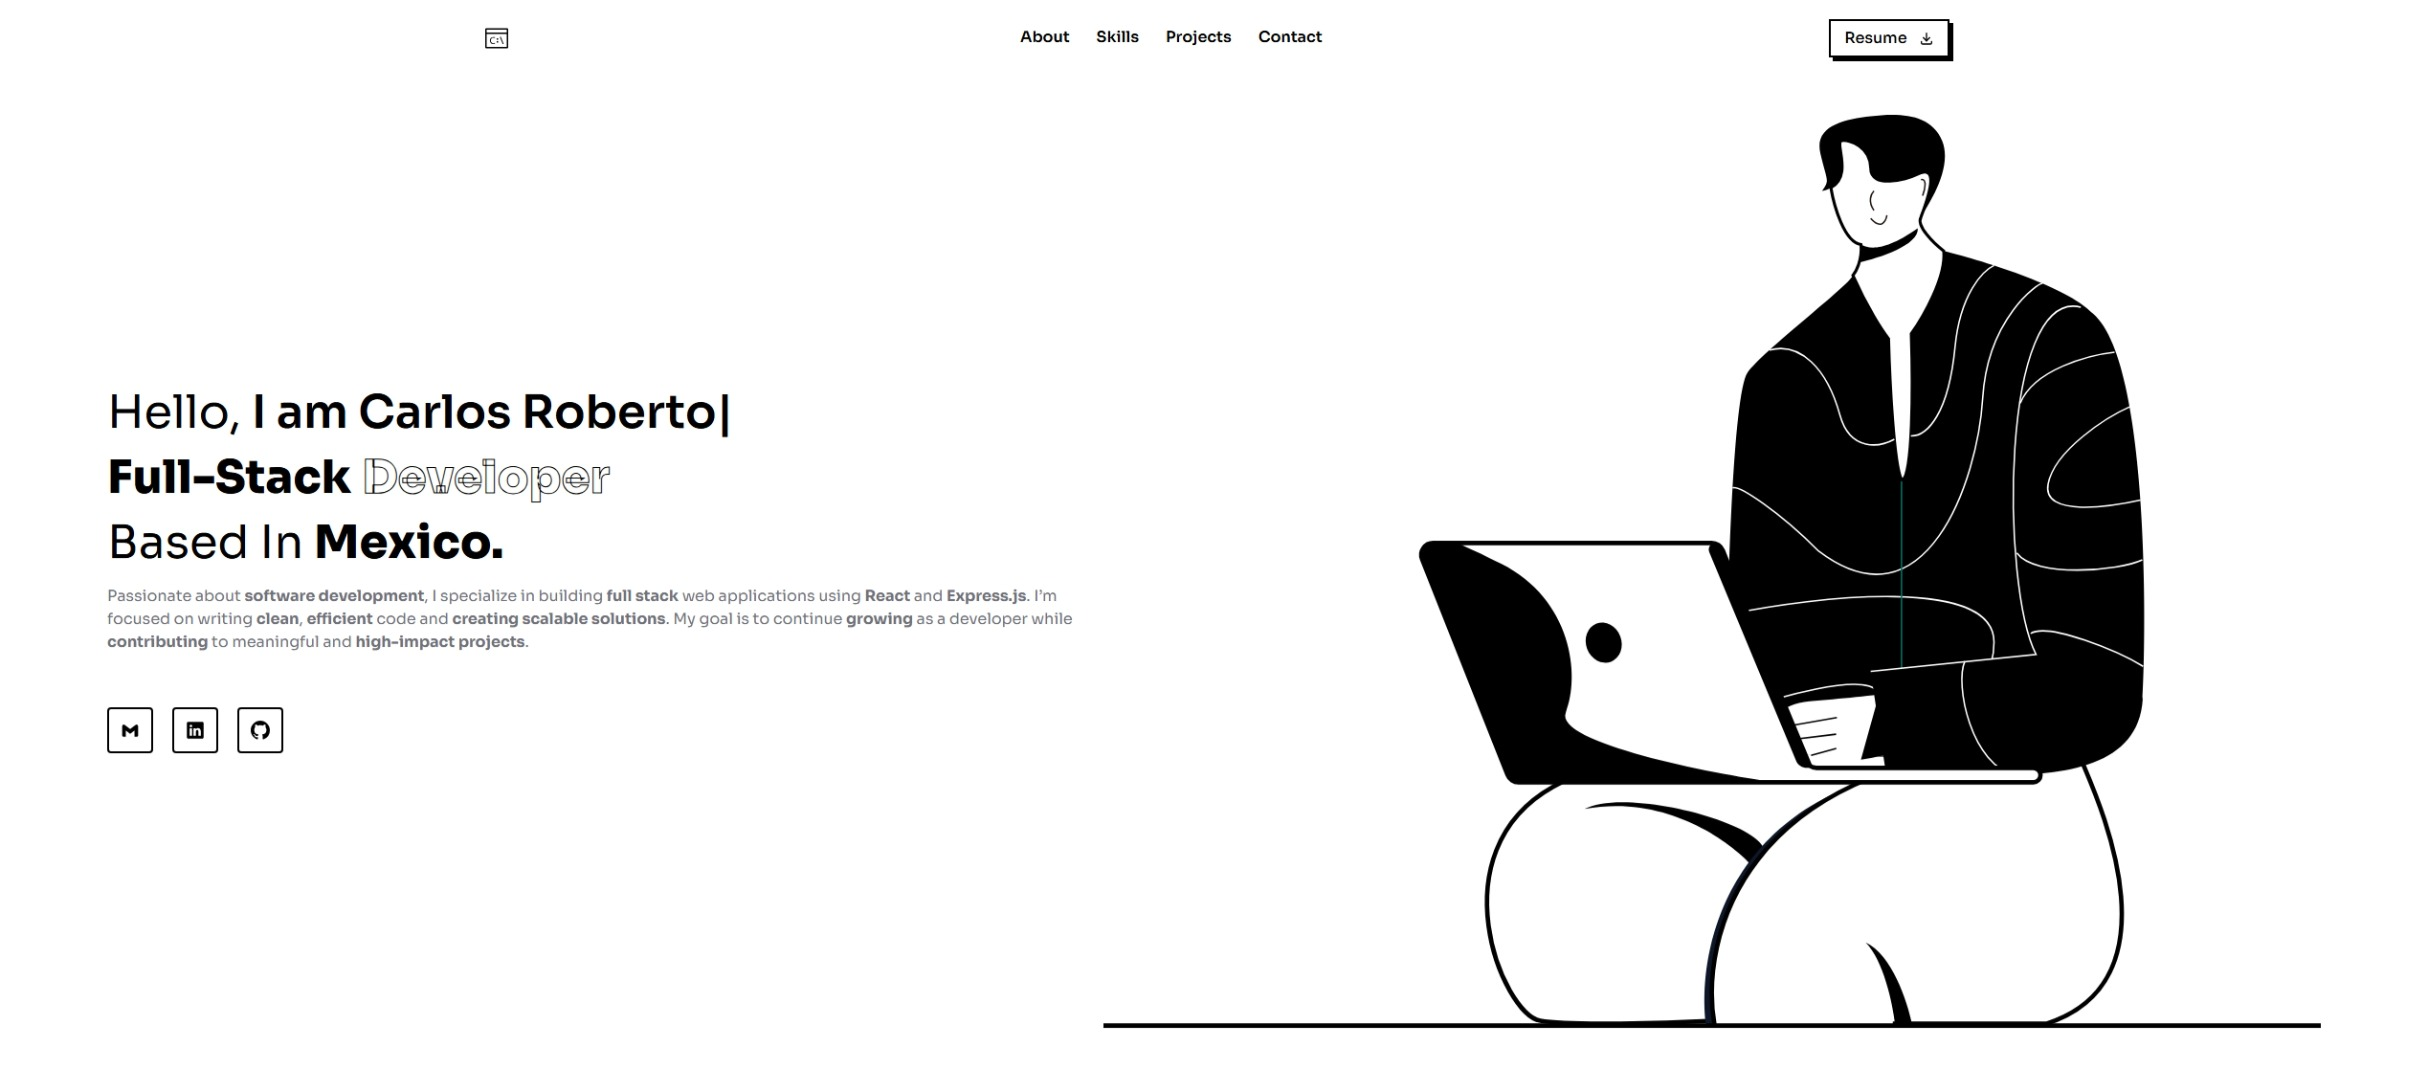
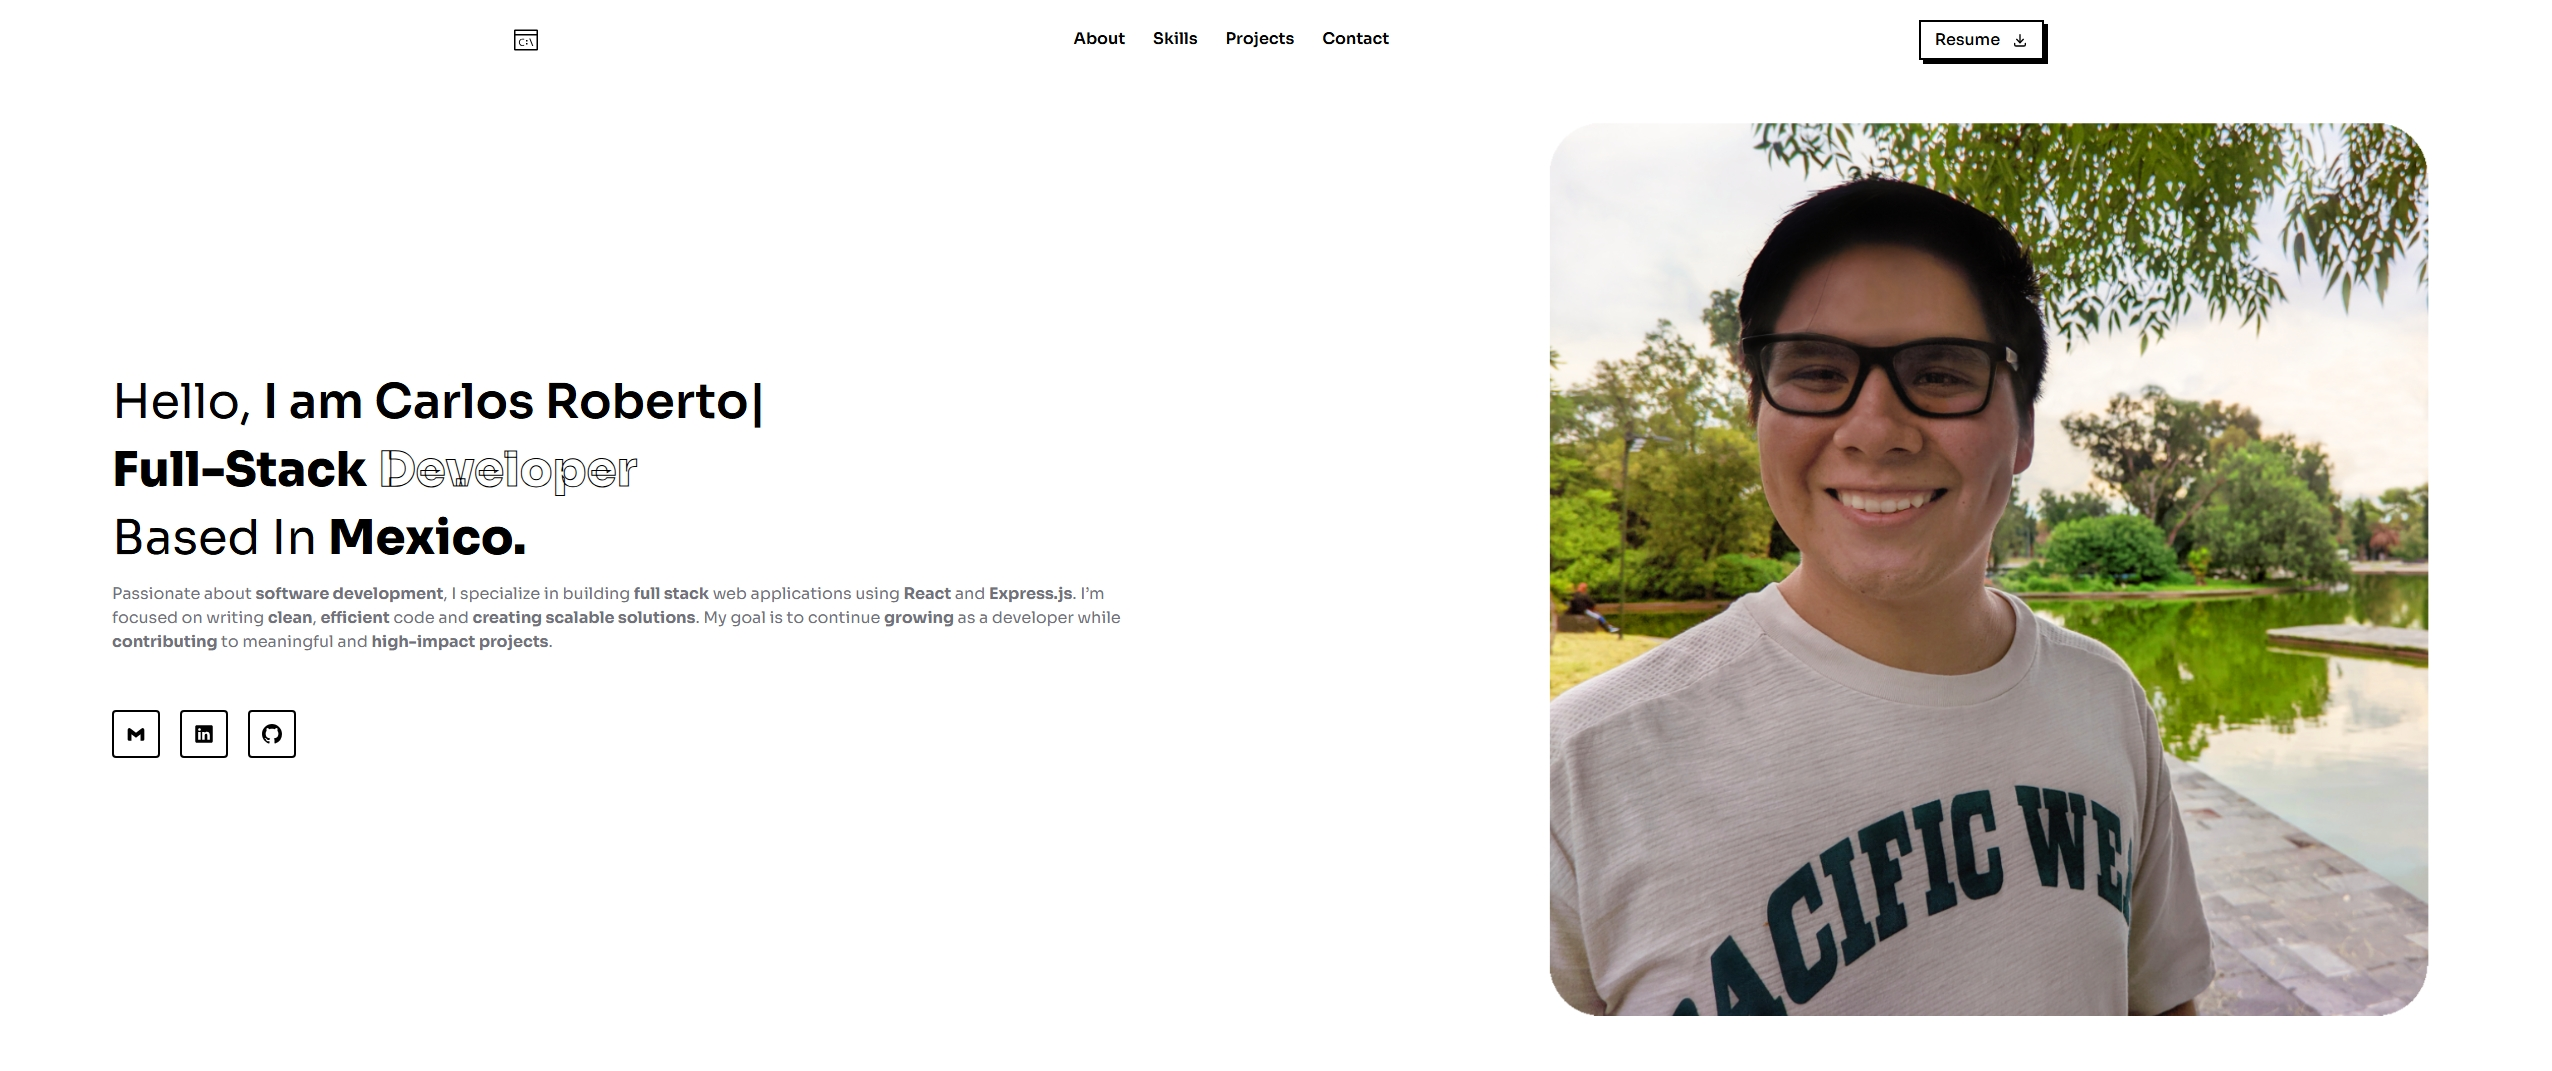
changed photos and preview

diff --git a/src/pages/Home.jsx b/src/pages/Home.jsx
@@ -4,7 +4,7 @@ import { IoLogoLinkedin } from "react-icons/io5";
 import { BiLogoGmail } from "react-icons/bi";
 import { BsGithub } from "react-icons/bs";
 import { TypeAnimation } from "react-type-animation";
-import ProfileImg from "../../public/assets/hero-vector.svg";
+import ProfileImg from "../../public/assets/home-image.png";
 
 export default function Home() {
   const socialLinks = [
@@ -103,12 +103,12 @@ export default function Home() {
         </motion.div>
 
         <motion.div
-          className="lg:w-[55%] w-full"
+          className="flex lg:w-[55%] w-full justify-center md:justify-end"
           initial={{ opacity: 0, x: 50 }}
           animate={{ opacity: 1, x: 0 }}
           transition={{ duration: 1, ease: "easeInOut" }}
         >
-          <img className="h-full w-full" src={ProfileImg} alt="Hero Vector" />
+          <img className="h-[70%] w-[70%]" src={ProfileImg} alt="Hero Vector" />
         </motion.div>
       </div>
     </div>

diff --git a/src/components/About.jsx b/src/components/About.jsx
@@ -1,12 +1,12 @@
 import React from 'react';
 import { motion } from 'framer-motion';
-import AboutMeImg from "../../public/assets/about-me.svg";
+import AboutMeImg from "../../public/assets/about-me.png";
 
 export default function About() {
   return (
     <div className="px-5 lg:px-28 flex justify-between flex-col lg:flex-row" id="about">
       <motion.div
-        className="lg:w-1/2"
+        className="lg:w-[30%]"
         initial={{ opacity: 0, x: -50 }}
         whileInView={{ opacity: 1, x: 0 }}
         transition={{ type: "spring", stiffness: 80, damping: 10 }}
